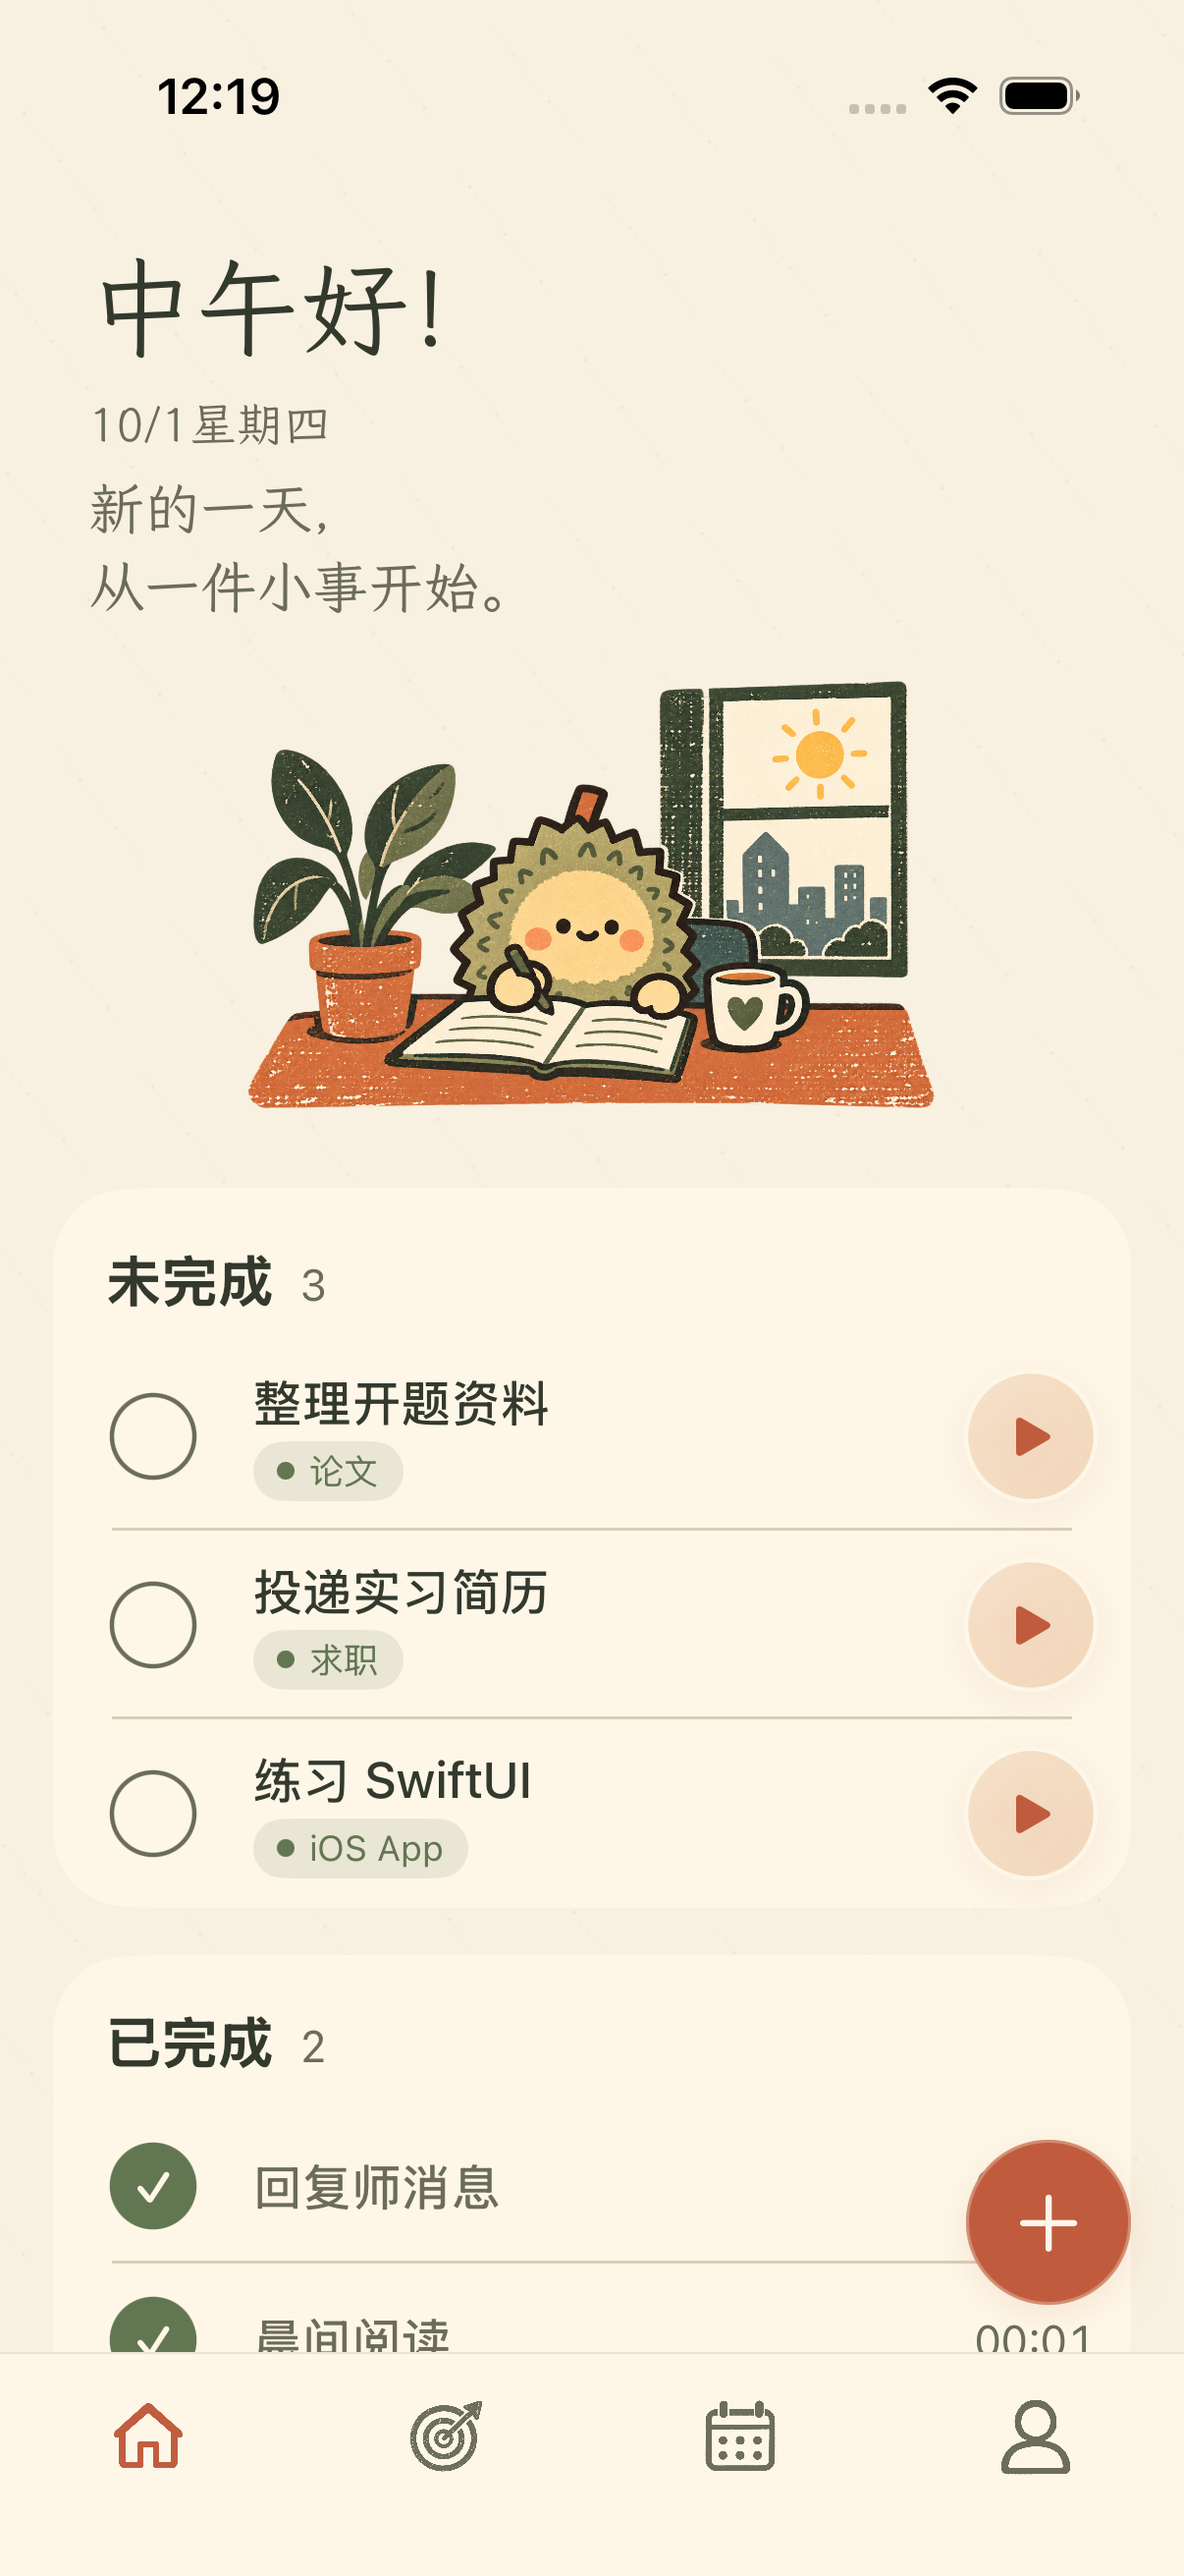
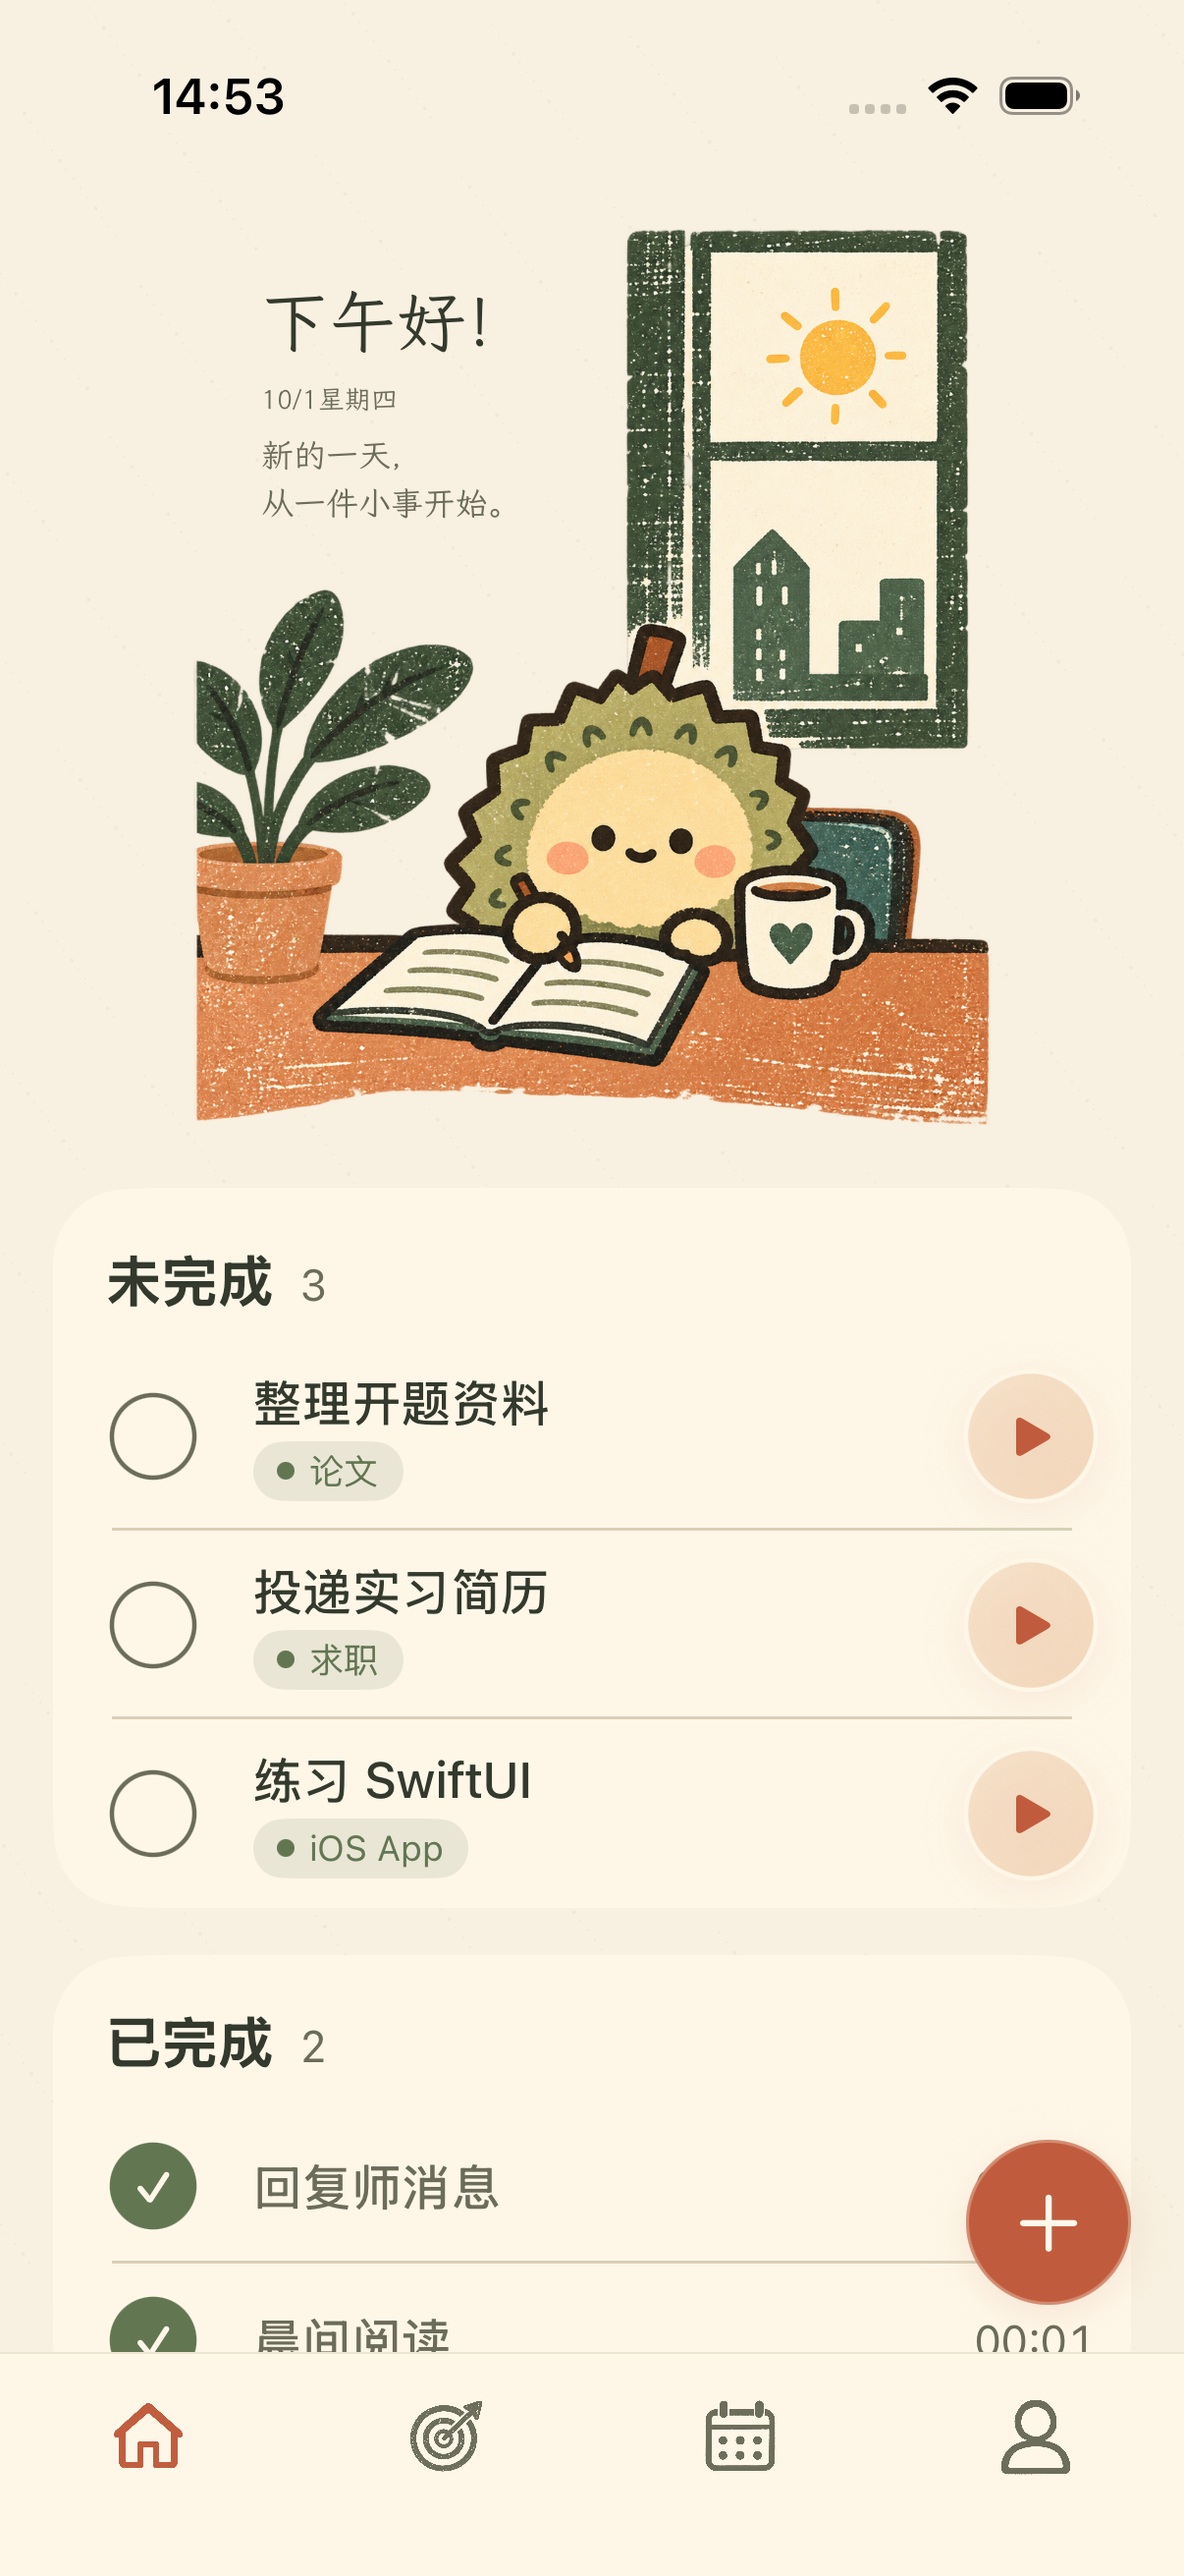
Align Today page illustration and layout with the reference

Changed region(s): [[0.0614, 0.0618, 0.859, 0.4325], [0.1227, 0.0309, 0.2454, 0.0618]]

diff --git a/ios/ZhouJi/Features/Today/TodayView.swift b/ios/ZhouJi/Features/Today/TodayView.swift
@@ -48,12 +48,12 @@ struct TodayView: View {
                     GeometryReader { proxy in
                         if completedTodayTasks.isEmpty {
                             ScrollView {
-                                quietTodayContent(height: proxy.size.height)
+                                quietTodayContent(size: proxy.size)
                                     .padding(.bottom, bottomControlsHeight + 12)
                             }
                         } else {
                             List {
-                                quietTodayContent(height: proxy.size.height)
+                                quietTodayContent(size: proxy.size)
                                     .frame(width: proxy.size.width)
                                     .frame(minHeight: proxy.size.height, alignment: .top)
                                     .listRowInsets(EdgeInsets(top: 0, leading: 0, bottom: 0, trailing: 0))
@@ -174,13 +174,13 @@ struct TodayView: View {
         }
     }
 
-    private func quietTodayContent(height: CGFloat) -> some View {
-        VStack(spacing: 12) {
+    private func quietTodayContent(size: CGSize) -> some View {
+        VStack(spacing: 20) {
             TodayHeader(
                 date: referenceDate,
                 isEmpty: true,
                 isDayComplete: !completedTodayTasks.isEmpty,
-                heroHeight: min(415, max(260, height - 230))
+                heroHeight: min(size.width * 1.2, max(270, size.height - 212))
             )
             firstTaskButton
         }
@@ -262,8 +262,23 @@ struct TodayView: View {
                 Image(systemName: "plus")
                     .font(.system(size: 46, weight: .regular, design: .rounded))
                     .foregroundStyle(ZJTheme.onAccent)
-                    .frame(width: 108, height: 108)
-                    .background(ZJTheme.accent, in: Circle())
+                    .frame(width: 124, height: 124)
+                    .background {
+                        Circle().fill(ZJTheme.accent)
+                            .overlay {
+                                Canvas { context, size in
+                                    for index in 0..<420 {
+                                        let x = CGFloat((index * 73 + 19) % 997) / 997 * size.width
+                                        let y = CGFloat((index * 137 + 47) % 991) / 991 * size.height
+                                        let side: CGFloat = index.isMultiple(of: 5) ? 1.1 : 0.5
+                                        context.fill(Path(ellipseIn: CGRect(x: x, y: y, width: side, height: side)),
+                                                     with: .color(ZJTheme.onAccent.opacity(0.22)))
+                                    }
+                                }
+                                .clipShape(Circle())
+                            }
+                            .allowsHitTesting(false)
+                    }
                     .overlay { Circle().strokeBorder(ZJTheme.onAccent.opacity(0.3), lineWidth: 1) }
                 Text("记一件事")
                     .font(ZJTheme.handwriting(24, relativeTo: .title3))
@@ -403,7 +418,7 @@ private struct TodayHeader: View {
     let date: Date
     let isEmpty: Bool
     var isDayComplete = false
-    var heroHeight: CGFloat = 415
+    var heroHeight: CGFloat = 480
 
     private var greeting: String {
         switch Calendar.current.component(.hour, from: date) {
@@ -415,30 +430,56 @@ private struct TodayHeader: View {
     }
 
     var body: some View {
-        VStack(alignment: .leading, spacing: 8) {
-            VStack(alignment: .leading, spacing: 8) {
-                    Text(greeting)
-                        .font(ZJTheme.handwriting(36, relativeTo: .largeTitle))
-                        .foregroundStyle(ZJTheme.ink)
-                    Text(date.formatted(.dateTime.month(.defaultDigits).day().weekday(.wide).locale(Locale(identifier: "zh_CN"))))
-                        .font(ZJTheme.handwriting(16, relativeTo: .subheadline))
-                        .foregroundStyle(ZJTheme.secondaryInk)
-                    Text(isDayComplete ? "今天的事都完成了，\n给自己一点休息的时间。" : "新的一天，\n从一件小事开始。")
-                        .font(ZJTheme.handwriting(19, relativeTo: .body))
-                        .lineSpacing(4)
-                        .foregroundStyle(ZJTheme.secondaryInk)
-                        .accessibilityIdentifier("today.message")
-            }
-            .padding(.horizontal, ZJTheme.pagePadding + 12)
-            .padding(.top, 22)
-            if !dynamicTypeSize.isAccessibilitySize {
-                ZJScene(name: "LiuliToday", height: nil)
-                    .frame(maxWidth: .infinity, maxHeight: .infinity)
+        Group {
+            if dynamicTypeSize > .large {
+                copy(scale: 1)
+                    .padding(.horizontal, ZJTheme.pagePadding + 12)
+                    .padding(.top, 22)
+                    .padding(.bottom, 16)
+            } else {
+                GeometryReader { proxy in
+                    let artworkWidth = min(proxy.size.width, proxy.size.height / 1.2)
+                    let artworkHeight = artworkWidth * 1.2
+
+                    // Keep the editable copy inside the illustration's empty upper-left area.
+                    ZStack(alignment: .topLeading) {
+                        Image("LiuliToday")
+                            .resizable()
+                            .scaledToFit()
+                            .frame(width: artworkWidth, height: artworkHeight)
+                            .accessibilityHidden(true)
+                            .allowsHitTesting(false)
+
+                        copy(scale: min(1, artworkWidth / 402))
+                            .frame(width: artworkWidth * 0.48, alignment: .leading)
+                            .padding(.leading, artworkWidth * 0.085)
+                            .padding(.top, artworkHeight * 0.105)
+                    }
+                    .frame(width: artworkWidth, height: artworkHeight)
+                    .frame(maxWidth: .infinity, maxHeight: .infinity, alignment: .top)
+                }
+                .frame(height: isEmpty ? heroHeight : 325)
             }
         }
-        .frame(height: dynamicTypeSize.isAccessibilitySize ? nil : (isEmpty ? heroHeight : 325))
         .frame(maxWidth: .infinity, alignment: .leading)
-        .padding(.bottom, dynamicTypeSize.isAccessibilitySize ? 16 : 0)
+    }
+
+    private func copy(scale: CGFloat) -> some View {
+        VStack(alignment: .leading, spacing: 7) {
+            Text(greeting)
+                .font(ZJTheme.handwriting(34 * scale, relativeTo: .largeTitle).weight(.bold))
+                .foregroundStyle(ZJTheme.ink)
+                .accessibilityIdentifier("today.greeting")
+            Text(date.formatted(.dateTime.month(.defaultDigits).day().weekday(.wide).locale(Locale(identifier: "zh_CN"))))
+                .font(ZJTheme.handwriting(14 * scale, relativeTo: .subheadline))
+                .foregroundStyle(ZJTheme.secondaryInk)
+            Text(isDayComplete ? "今天的事都完成了，\n给自己一点休息的时间。" : "新的一天，\n从一件小事开始。")
+                .font(ZJTheme.handwriting(17 * scale, relativeTo: .body))
+                .lineSpacing(3)
+                .foregroundStyle(ZJTheme.secondaryInk)
+                .accessibilityIdentifier("today.message")
+        }
+        .fixedSize(horizontal: false, vertical: true)
     }
 }
 

diff --git a/ios/ZhouJiUITests/ZhouJiV2UITests.swift b/ios/ZhouJiUITests/ZhouJiV2UITests.swift
@@ -73,6 +73,11 @@ final class ZhouJiUITests: XCTestCase {
         XCTAssertEqual(firstTask.frame.midX, app.frame.midX, accuracy: 2)
         XCTAssertGreaterThan(firstTask.frame.height, 120)
         XCTAssertLessThanOrEqual(firstTask.frame.maxY, app.buttons["tab.today"].frame.minY)
+        let message = app.staticTexts["today.message"]
+        XCTAssertTrue(message.isHittable)
+        XCTAssertLessThan(message.frame.maxY, firstTask.frame.minY)
+        XCTAssertLessThanOrEqual(message.frame.maxX, app.frame.width * 0.6)
+        saveScreenshot("today-empty-reference", app: app)
         XCTAssertFalse(app.staticTexts["今天想做点什么？"].exists)
         XCTAssertTrue(app.buttons["tab.today"].isSelected)
         XCTAssertTrue(app.buttons["tab.goals"].exists)

diff --git a/docs/design/2026-09-30-榴榴改版.md b/docs/design/2026-09-30-榴榴改版.md
@@ -80,3 +80,15 @@
 本节对应的四页预览及有任务、全部完成截图已更新为实际模拟器截图；上文各日期的测试结果为历史记录。
 
 最终验证：iPhone 17 Pro 上 4 项界面测试通过，覆盖四页导航与任务操作、目标图标推荐/手动选择、全部完成后的新增和恢复、大字体下的页面入口；iPhone SE 上 3 项界面测试通过，覆盖四页导航、全部完成状态及设置/日历回顾入口。实际截图已检查，小屏完成提示与插画保持间距。22 张 PNG 的解码与透明通道检查通过，应用图标为 1024×1024、不含透明通道，通用模拟器构建通过。本轮为相关界面回归，未运行完整测试套件或实机验证。
+
+## 2026-10-01 今天页参考构图修正
+
+用户指出今天页与提供的单页参考仍有差异。本轮重新生成透明竖向桌边场景，采用左上留白、右上高窗、下半部榴榴与通栏桌面的构图，替换原先放在文字下方的横向场景。插画沿用复古丝网印刷海报与手绘平面风格，保留苔绿、奶油黄和陶土橙专色及油墨漏白颗粒。
+
+问候语、当前日期和状态提示由页面在左上留白内排版，不烘焙到图片中。日期与分时问候继续实时显示；当天全部完成时仍只替换状态提示，完成记录保留在首屏下方。加号增大并增加同风格印刷颗粒。有任务时缩小完整构图，将空间留给任务列表。较大字体时隐藏装饰插画，文案全宽排版并继续支持滚动，避免文字与窗户重叠。
+
+生成方式为内置 imagegen，图片位于 `ios/ZhouJi/Assets.xcassets/LiuliToday.imageset/LiuliToday.png`，提示词见 [今天页参考构图提示词](2026-10-01-今天页参考构图提示词.json)。仅调整今天页素材与排版，其他页面素材和任务、计时、目标、日期归属规则保持现有实现。
+
+验证：iPhone 17 Pro 上 4 项界面检查通过，覆盖首次打开与新增、全部完成后的新增/恢复/删除/撤销、四页导航和任务操作、大字体；iPhone SE 上 3 项界面检查通过，覆盖首次打开与新增、全部完成后的操作及大字体。通用模拟器构建通过。新插画为 1145×1374、包含真实透明通道的 PNG；实际无任务、完成、有任务和小屏截图均已检查。首次打开测试还检查了左上提示与添加入口的可见性、间距和位置。未进行全部测试套件或实机验证。
+
+本页今天相关预览已更新为本轮实际截图；另可查看 [小屏空状态](liuli-preview/today-se.png) 与 [小屏全部完成](liuli-preview/today-completed-se.png)。
